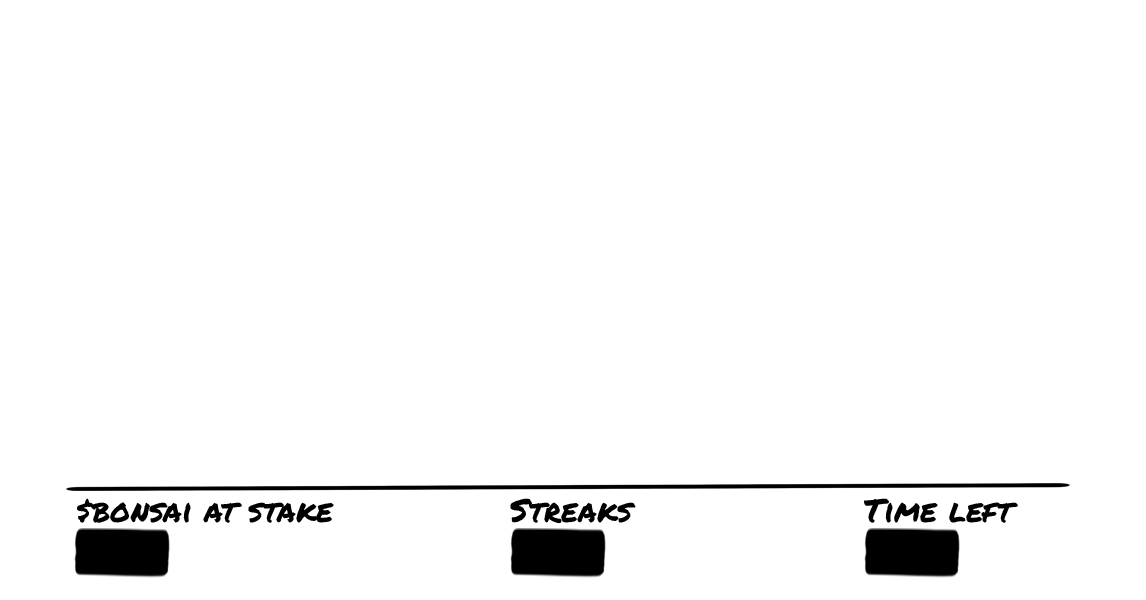
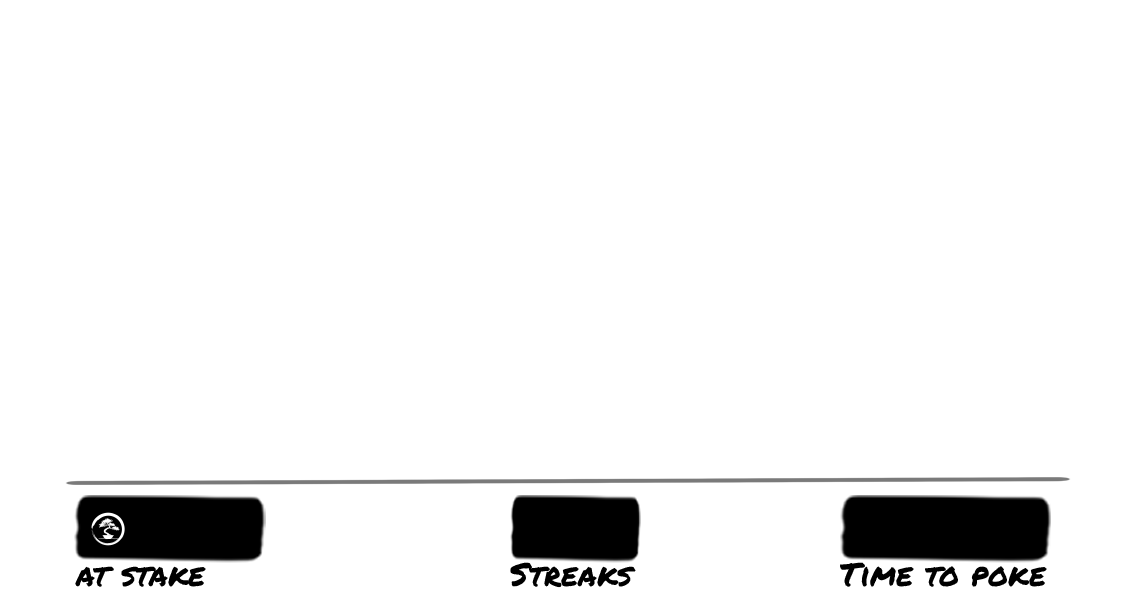
Updated PlayFrame
Lens PFP,
Improved Game-Stats
Improved Tree-Logics

Changed region(s): [[0.0611, 0.78, 0.9468, 0.99]]

diff --git a/src/app/poke/send-poke/route.tsx b/src/app/poke/send-poke/route.tsx
@@ -97,7 +97,9 @@ const handleRequest = frames(async (ctx) => {
     getProfileById(convertIntToHexLensId(updatedState.pokeParams?.toProfileId)),
   ])
 
-  // console.log(myProfile, otherProfile)
+ // console.log(myProfile, otherProfile)
+ // console.log(myProfile.metadata.picture.optimized.uri)
+ // console.log(updatedState.pokeParams?.toProfileId)
 
   return {
     image: (
@@ -119,14 +121,13 @@ const handleRequest = frames(async (ctx) => {
 
 
         {/* PFPs */}
-
         <div tw="flex w-80px h-80px absolute top-365px left-300px" style={{
-          backgroundImage: `url(${baseUrl}/poke/pfp-placeholder-1.jpg)`,
+          backgroundImage: `url(${myProfile.metadata.picture.optimized.uri})`,
           backgroundSize: "80px 80px",
           zIndex: 5,
         }}></div>
         <div tw="flex w-80px h-80px absolute top-365px left-760px" style={{
-          backgroundImage: `url(${baseUrl}/poke/pfp-placeholder-2.jpg)`,
+          backgroundImage: `url(${otherProfile.metadata.picture.optimized.uri})`,
           backgroundSize: "80px 80px",
           zIndex: 5,
         }}></div>
@@ -151,10 +152,23 @@ const handleRequest = frames(async (ctx) => {
 
 
 
+        {/* Temp 
+        <div tw="flex absolute top-0px left-0px" style={{
+          fontWeight: 700,
+          color: "red"
+        }}>
+          {convertIntToHexLensId(pokeParams.whoStartedIt.toString())} // 
+          {convertIntToHexLensId(pokeParams.pokeStatus.lastPokeProfileId.toString())} // 
+          {myProfile.id.toString()} // 
+          {otherProfile.id.toString()}
+        </div>
+        */}
 
 
 
-        {pokeParams.whoStartedIt.toString() === pokeParams.pokeStatus.lastPokeProfileId.toString() ? (
+
+
+        {myProfile.id.toString() === convertIntToHexLensId(pokeParams.pokeStatus.lastPokeProfileId.toString()) ? (
           <div tw="flex w-full h-full absolute top-0px left-0px">
             <div tw="flex w-full h-full absolute top-0px left-0px" style={{
               backgroundImage: `url(${baseUrl}/poke/poke-player-1-stem-point.png)`,
@@ -180,7 +194,7 @@ const handleRequest = frames(async (ctx) => {
               backgroundImage: `url(${baseUrl}/poke/poke-player-1-yourMove.png)`,
               backgroundSize: "cover",
               zIndex: 25,
-            }}></div>
+            }}></div>          
           </div>
         ) : (
             <div tw="flex w-full h-full absolute top-0px left-0px">
@@ -209,6 +223,11 @@ const handleRequest = frames(async (ctx) => {
                 backgroundSize: "cover",
                 zIndex: 25,
               }}></div>
+              <div tw="flex w-full h-full absolute top-0px left-0px" style={{
+                backgroundImage: `url(${baseUrl}/poke/poke-player-1-myMove.png)`,
+                backgroundSize: "cover",
+                zIndex: 30,
+              }}></div>
             </div>
         )}
 
@@ -219,17 +238,17 @@ const handleRequest = frames(async (ctx) => {
           style={{
             backgroundImage: `url(${baseUrl}/poke/poke-gameTexts.png)`,
             backgroundSize: "cover",
-            zIndex: 30,
-            fontWeight: 700,
-            fontSize: "24px",
+            zIndex: "30",
+            fontWeight: "bold",
+            fontSize: "40px",
             color: "#FFFFFF",
           }}
         >
-          <div tw="flex absolute top-535px left-90px">{formatUnits(BigInt(pokeParams.pokeStatus.amount), 18)}</div>
-          <div tw="flex absolute top-535px left-523px">{pokeParams.pokeStatus.subgraphData.streak.toString()}</div>
+          <div tw="flex absolute top-500px left-140px">{formatUnits(BigInt(pokeParams.pokeStatus.amount), 18)}</div>
+          <div tw="flex absolute top-500px left-0px w-full items-center justify-center">{pokeParams.pokeStatus.subgraphData.streak.toString()}</div>
           {timeRemaining &&
             (timeRemaining > 0 ? (
-              <div tw="flex absolute top-535px left-878px">{formatTimeRemaining(timeRemaining)}</div>
+              <div tw="flex absolute top-500px left-860px">{formatTimeRemaining(timeRemaining)}</div>
             ) : (
               <div tw="flex">Game Over</div>
             ))}

diff --git a/src/app/poke/start/route.tsx b/src/app/poke/start/route.tsx
@@ -1,9 +1,22 @@
 import { Button } from "frames.js/next"
 import { baseUrl, frames } from "../frames"
+import { getAllMyActivePokes } from "@/app/services/poke"
 
 const handleRequest = frames(async () => {
     return {
-    image: `${baseUrl}/poke/poke-start.jpg`,
+      image: (
+        <div
+          tw="flex w-full h-full relative items-center justify-center"
+          style={{
+            backgroundImage: `url(${baseUrl}/poke/poke-start.jpg)`,
+            backgroundSize: "cover",
+            fontWeight: 700,
+            color: "#000000",
+          }}
+        >
+          <div tw="text-center"> </div>
+        </div>
+      ),
     textInput: "Enter someones Lens Handle",
     buttons: [
       <Button action="post" key="button1" target="/send-poke">

diff --git a/src/app/services/poke.ts b/src/app/services/poke.ts
@@ -153,5 +153,5 @@ export const formatTimeRemaining = (milliseconds: number): string => {
   if (milliseconds <= 0) return "00:00"
   const hours = Math.floor(milliseconds / (1000 * 60 * 60))
   const minutes = Math.floor((milliseconds % (1000 * 60 * 60)) / (1000 * 60))
-  return `${hours.toString().padStart(2, "0")}:${minutes.toString().padStart(2, "0")}`
+  return `${hours.toString().padStart(2, "0")}h ${minutes.toString().padStart(2, "0")}m`
 }
